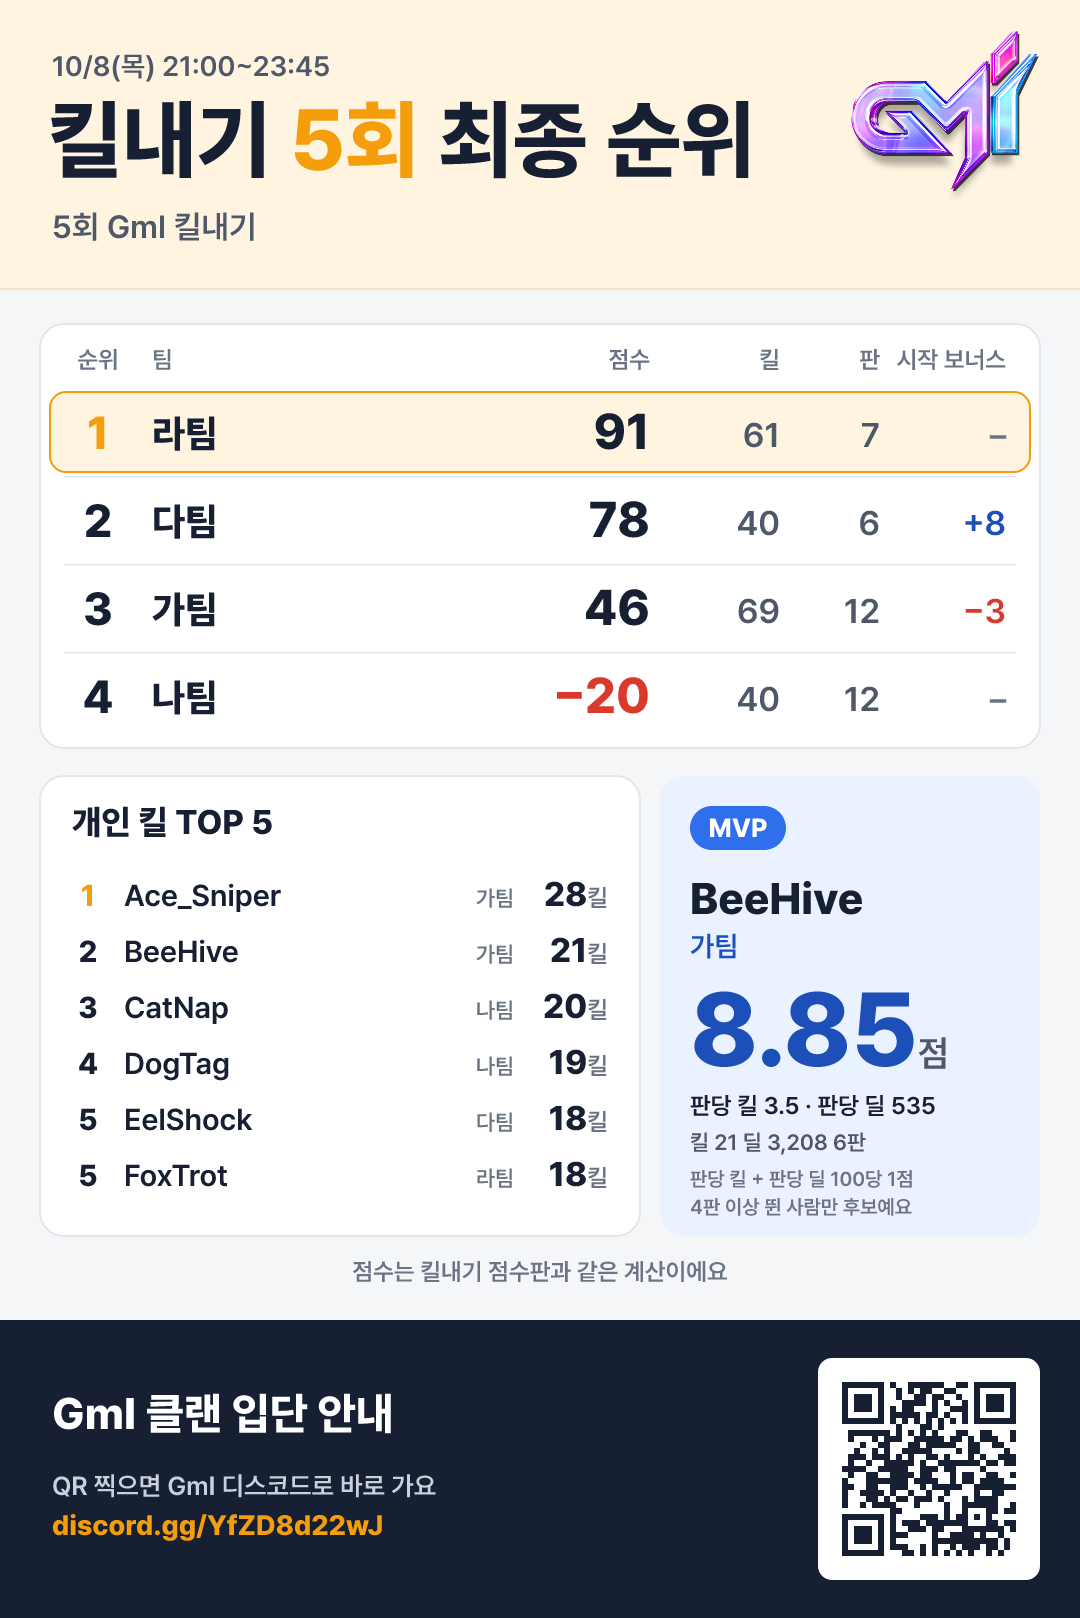
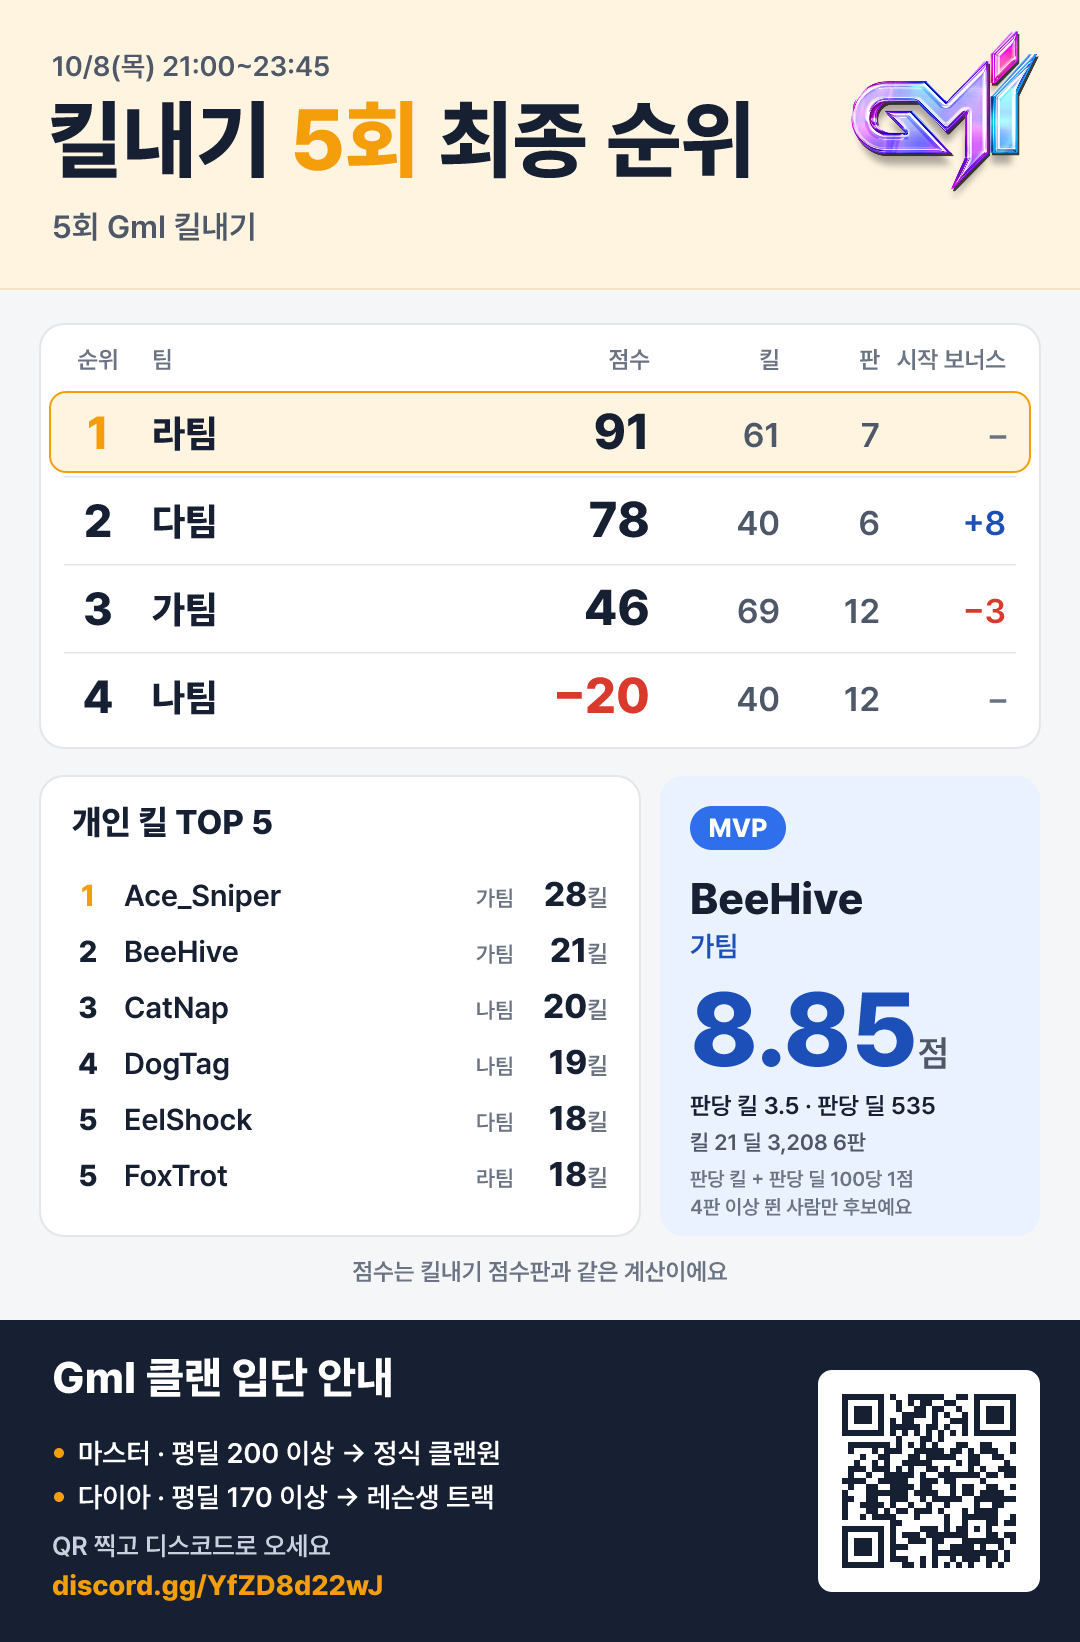
포스터 입단 안내 — 오너 기준 두 줄 · 안내 줄 「QR 찍고 디스코드로 오세요」 (지휘 10/7 전달 · 계약 §1.9)
- RECRUIT.lines = 「마스터 · 평딜 200 이상 → 정식 클랜원」 「다이아 · 평딜 170 이상 → 레슨생 트랙」(오너가 룰 영상 녹음에서 말한 글 그대로)
- RECRUIT.cta = 「QR 찍고 디스코드로 오세요」 · 초대 주소는 만료 없는 초대(오너 10/7 확인 · 그대로)
- 시험: 띠 글자 다섯 줄 · 점 2개 · 기준 줄이 없으면 점 없음. 「상금 글자 없음」 검사의 「원」은 숫자 뒤 원 · 만만 막게 고침(클랜원의 원은 금액이 아니다)
- 미리 보기 .github/previews/killrace-poster-preview-gmi.png 다시 그림(가짜 값 · 가로 400px 에서도 QR 읽힘)

Claude-Session: https://claude.ai/code/session_01JejhYedoP16Jfgk9vFUF8D

diff --git a/docs/killrace-api.md b/docs/killrace-api.md
@@ -219,8 +219,9 @@
     3회 값: laozishilaobai3 7.71점(6판 · 킬 18 · 딜 2,825 · 판당 킬 3.0 · 판당 딜 471). 종전 합계 1위 eogeumni_10 은 판당 5.72.
   - **GmI 로고 · 마무리 띠**(오너 10/6 「이거 GmI 클랜 로고니까! GmI 클랜 입단기준도 간략하기 마무리할때 넣던지 QR코드나 그런것도」)
     - 머리 오른쪽 위에 로고 190×170 — `img/gmi-logo.png`(480×429 · 배경 투명 · 오너가 준 그림을 로고 크기로 자른 것). 제목 줄은 세 자리 회차여도 로고 앞에서 끝난다.
-    - 맨 아래 남색 띠 — 「GmI 클랜 입단 안내」 · 기준 줄 · 「QR 찍으면 GmI 디스코드로 바로 가요」 · `discord.gg/YfZD8d22wJ` · 흰 카드에 QR.
-    - **기준 줄은 오너가 준 글 그대로만**(`RECRUIT.lines` · 3줄까지 · 비어 있으면 안 그린다). 저장소에 입단 기준 글이 없어서 지어 넣지 않았다.
+    - 맨 아래 남색 띠 — 「GmI 클랜 입단 안내」 · 기준 줄 · 「QR 찍고 디스코드로 오세요」 · `discord.gg/YfZD8d22wJ`(만료 없는 초대 · 오너 10/7 확인) · 흰 카드에 QR.
+    - **기준 줄은 오너가 준 글 그대로만**(`RECRUIT.lines` · 3줄까지 · 비어 있으면 안 그린다). 지금 글 = 오너가 룰 영상 녹음에서 말한 세 줄(지휘 10/7 전달):
+      「마스터 · 평딜 200 이상 → 정식 클랜원」 「다이아 · 평딜 170 이상 → 레슨생 트랙」 두 줄은 기준 줄로, 「QR 찍고 디스코드로 오세요」는 안내 줄(`RECRUIT.cta`)로 넣었다.
     - QR(버전 3 · 29×29 · 오류 정정 Q · 칸 6px)은 행렬로 코드에 넣었다(`GMI_QR`). 저장소 밖에서 node-qrcode 1.5.4 로 한 번 만들고 다른 구현(jsQR 1.4.0)으로
       되읽어 확인했다 — **새 의존성 없음**. 시험이 형식 정보 · 정정 바이트까지 다시 계산해 읽고, 읽은 주소가 띠의 주소와 같은지 본다
       (주소만 바꾸면 시험이 깨진다 = QR 도 다시 만들어 붙여야 한다). 그린 PNG 를 가로 400px 로 줄여도 읽힌다(jsQR 로 확인).
